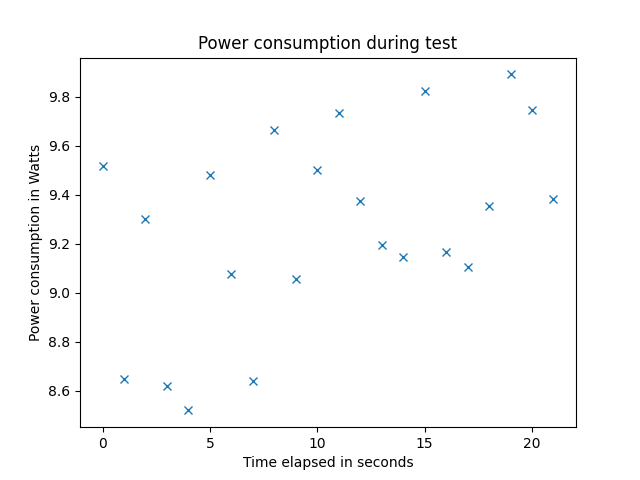
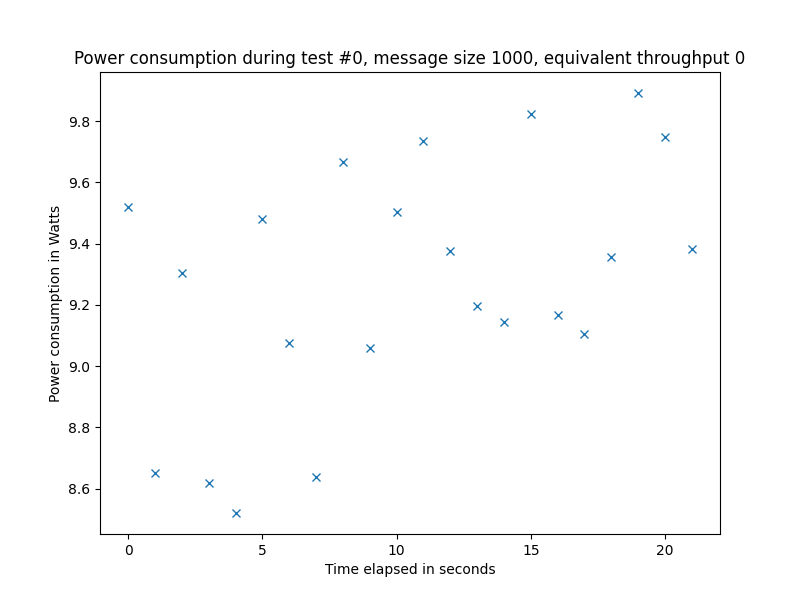
maybe ready to deploy - just need to check for machine name

diff --git a/data_grabber.py b/data_grabber.py
@@ -25,7 +25,7 @@ def timestamps_extractor(file_path):
             message_size = split[10]
             throughput = split[15]
             # print(test_number, message_size, throughput)
-            timestamps.append((test_number, message_size, throughput))
+            timestamps[2].append((test_number, message_size, throughput))
         elif lines[k][0] == 'S':
             start_time = lines[k][13:-1]
             timestamps[0].append(start_time)
@@ -99,24 +99,27 @@ def data_parser(json_path):
             only_energy.append((timestamp, value))
     return only_energy
 
-def build_graphs(files):
+def build_graphs(files, timestamps):
     # print(files)
-    for file in files:
+    test_info = timestamps[2]
+    for k in range(len(files)):
         # print(file)
-        data = data_parser(file)
+        data = data_parser(files[k])
         X = []
         Y = []
         for element in data:
             X.append(element[0])
             Y.append(element[1])
+        plt.figure(figsize=(8, 6))
         plt.plot(X,Y,"x")
         plt.xlabel('Time elapsed in seconds')
         plt.ylabel('Power consumption in Watts')
-        plt.title('Power consumption during test')
-        plt.savefig(file+".png")
+        plt.title(f'Power consumption during test {test_info[k][0]}, message size {test_info[k][1]}, equivalent throughput {int(test_info[k][1])*int(test_info[k][2])}')
+        plt.savefig(files[k]+".png")
         
 
 timestamps = timestamps_extractor("results.txt")
-json_names = request_api(timestamps)
-build_graphs(json_names)
+print(timestamps)
+# json_names = request_api(timestamps)
+build_graphs(["metrics.json"], timestamps)
 

diff --git a/node.py b/node.py
@@ -7,7 +7,7 @@ message_size = 1 # in bytes
 
 test_length = 0.5 # test length in minutes
 
-throughputs = [1, 10, 100, 1000]
+throughputs = [0, 1, 10, 100, 1000]
 
 message_sizes = [1000, 1000000, 10000000]
 
@@ -24,13 +24,16 @@ def data_sender(throughput, message_size, test_length):
     print(f"Start time : {start_time}")
     print(f"End time : {end_time}")
 
-    while datetime.now() < end_time : 
-        client_socket = socket.socket(socket.AF_INET, socket.SOCK_STREAM)
-        client_socket.connect(('localhost', 8080))
-        data_to_send = "Sample data"
-        client_socket.send(data_to_send.encode())
-        client_socket.close()
-        time.sleep(1/throughput)
+    if throughput > 0: 
+        while datetime.now() < end_time : 
+            client_socket = socket.socket(socket.AF_INET, socket.SOCK_STREAM)
+            client_socket.connect(('localhost', 8080))
+            data_to_send = "Sample data"
+            client_socket.send(data_to_send.encode())
+            client_socket.close()
+            time.sleep(1/throughput)
+    else :
+        time.sleep(test_length*60)
 
     return ({start_time},{end_time})
 
